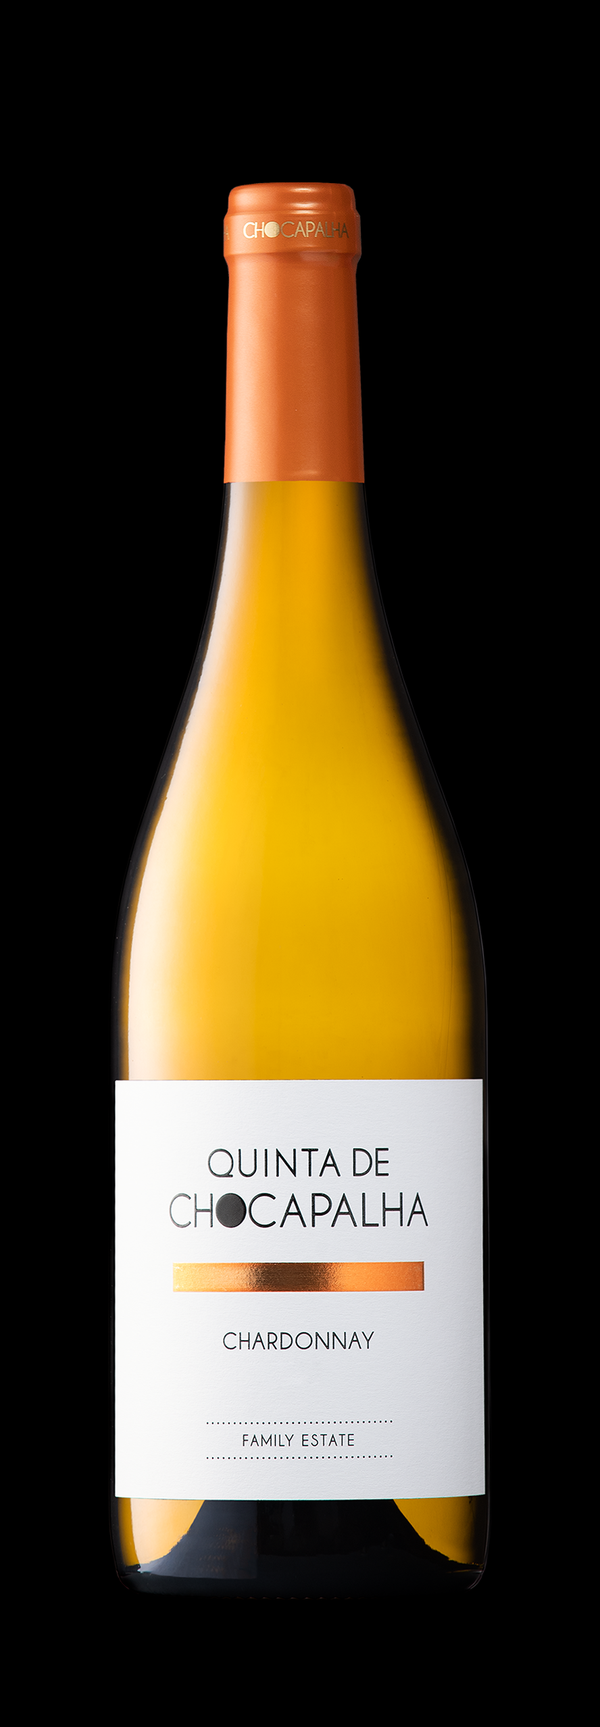
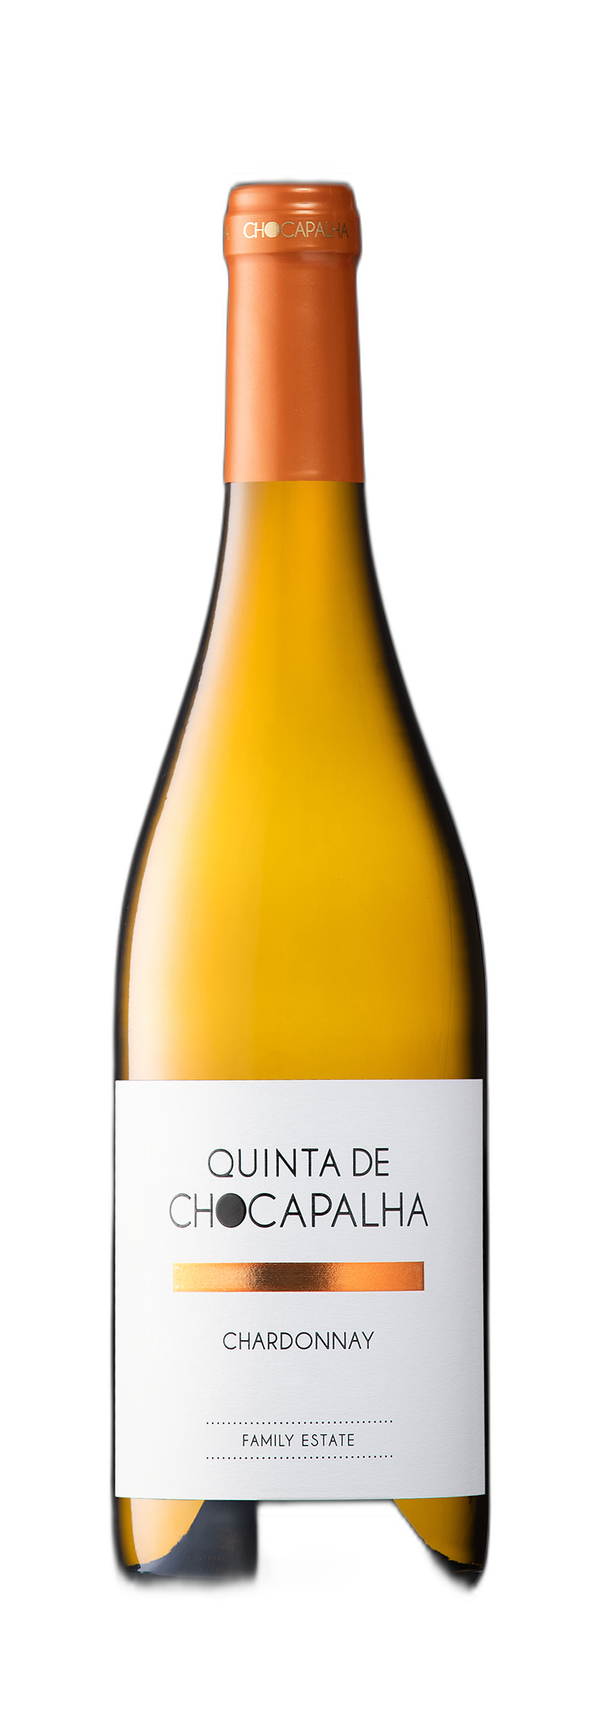
Wine cards: white image box + remove black backgrounds from 8 bottle photos (AI cutout on white)

diff --git a/vinhos.html b/vinhos.html
@@ -318,7 +318,7 @@
   .card:not(:hover) { will-change: auto; }
   .card-img-wrap {
     position: relative; aspect-ratio: 4 / 5; overflow: hidden;
-    background: var(--sand);
+    background: #ffffff;
   }
   .card-img-wrap img {
     height: 100%; width: 100%; object-fit: cover;
@@ -328,7 +328,7 @@
     object-fit: contain;
     object-position: center center;
     padding: 6px;
-    background: var(--sand);
+    background: #ffffff;
   }
   .card-img-wrap img.img-cover {
     object-fit: cover;
